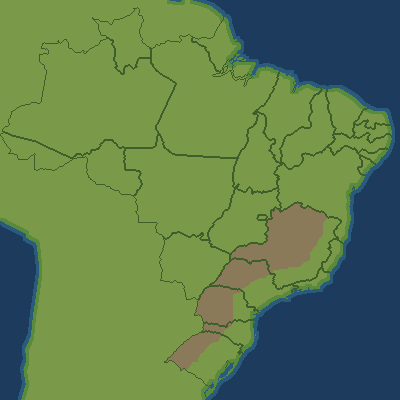
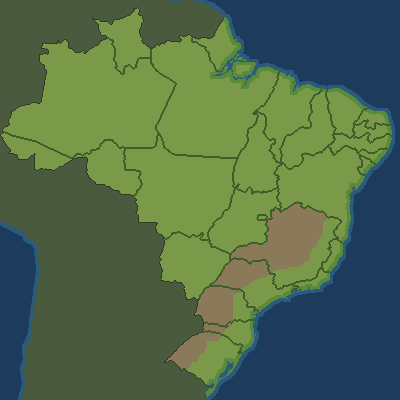
Mundo: cidades sempre em terra e vizinhos destacados no brasil.png

diff --git a/ferramentas/montar_mundo.py b/ferramentas/montar_mundo.py
@@ -23,13 +23,15 @@ W_BRASIL, H_BRASIL = 400, 400
 CAIXA_TERRA = (-180.0, -90.0, 180.0, 90.0)
 W_TERRA, H_TERRA = 360, 180  # 1° por pixel
 PALETA = {"mar": "#1d3b5c", "mar_raso": "#2a5a7c", "terra": "#5a8a3c", "terra_alta": "#7a9a4a",
-          "serra": "#8a7a5a", "borda_uf": "#3e5e2a", "rio": "#3a7ab0"}  # rio: sem uso até haver fonte de rios
+          "serra": "#8a7a5a", "borda_uf": "#3e5e2a", "rio": "#3a7ab0",  # rio: sem uso até haver fonte de rios
+          "vizinho": "#4a5a3e", "borda_pais": "#2e3a22"}  # só no brasil.png
 UFS_SERRA = {"MG", "ES", "RJ", "SP", "PR", "SC", "RS"}
 COSTA, INTERIOR = 3, 20  # faixas de relevo: 0–3, 4–20 e 21+ pixels da costa
 NAO_CAPITAIS = {"mateus-leme"}
 ROTA_MAX_KM, ROTAS_MAX = 1500, 40
 ESTRANGEIRO = "--"  # rótulo da terra de outros países no mapa do Brasil
 FRESTA_LONGE_DO_MAR = 4  # pixels: ver desenhar_brasil()
+CIDADE_RAIO = 6  # pixels: até onde a cidade da costa pode ser puxada para a terra brasileira
 
 
 def para_pixel(lat, lon, caixa, w, h):
@@ -96,6 +98,14 @@ def distancias(dentro, w, h, rodar=False):
     return dist
 
 
+def vizinhos4(x, y):
+    return (x - 1, y), (x + 1, y), (x, y - 1), (x, y + 1)
+
+
+def vizinhos8(x, y):
+    return [(x + dx, y + dy) for dy in (-1, 0, 1) for dx in (-1, 0, 1) if dx or dy]
+
+
 def relevo(dist_costa, uf=None):
     if dist_costa <= COSTA:
         return "terra"
@@ -115,7 +125,8 @@ def pintar(w, h, cor_de):
 
 
 def desenhar(rotulo, w, h, rodar=False):
-    """Mar raso perto da costa, relevo na terra e borda de 1 pixel em volta de cada UF.
+    """Mar raso perto da costa, relevo na terra, vizinhos numa cor só e borda de 1 pixel em volta de cada UF
+    (borda_pais contra vizinho, borda_uf contra outra UF).
     rotulo: pixel -> UF, ESTRANGEIRO ou None (terra sem UF); pixel ausente é mar."""
     terra = set(rotulo)
     da_terra = distancias(terra, w, h, rodar)                   # na terra: passos até o mar
@@ -125,10 +136,14 @@ def desenhar(rotulo, w, h, rodar=False):
         if (x, y) not in terra:
             return "mar_raso" if do_mar[(x, y)] <= COSTA else "mar"
         uf = rotulo[(x, y)]
-        if uf and uf != ESTRANGEIRO:
-            for v in ((x - 1, y), (x + 1, y), (x, y - 1), (x, y + 1)):
-                if v in terra and rotulo[v] != uf:
-                    return "borda_uf"
+        if uf == ESTRANGEIRO:
+            return "vizinho"
+        if uf:
+            outros = {rotulo[v] for v in vizinhos4(x, y) if v in terra} - {uf}
+            if ESTRANGEIRO in outros:
+                return "borda_pais"
+            if outros:
+                return "borda_uf"
         return relevo(da_terra[(x, y)], uf)
     return pintar(w, h, cor)
 
@@ -154,17 +169,35 @@ def desenhar_brasil(paises, estados):
             brasil_110m |= pixels
         else:
             rotulo.update(dict.fromkeys(pixels, ESTRANGEIRO))
-    # O 1:110m e o 1:50m não casam: sobra Brasil 110m fora das UFs. Longe do mar é fresta de fronteira
-    # e vira terra do vizinho; perto da costa (onde o 110m avança sobre o mar e as lagoas do 50m) é mar.
-    ate_o_mar = distancias(brasil_110m | set(rotulo), W_BRASIL, H_BRASIL)
-    for px in brasil_110m - set(rotulo):
-        if ate_o_mar[px] > FRESTA_LONGE_DO_MAR:
-            rotulo[px] = ESTRANGEIRO
+    ate_o_mar = distancias(brasil_110m | set(rotulo), W_BRASIL, H_BRASIL)  # mar do 1:110m
     for e in sorted(estados, key=lambda e: e["properties"]["postal"]):
         uf = e["properties"]["postal"]
         for px in preencher_aneis(aneis_em_pixels(e["geometry"], CAIXA_BRASIL, W_BRASIL, H_BRASIL), W_BRASIL, H_BRASIL):
             rotulo[px] = uf
-    return desenhar(rotulo, W_BRASIL, H_BRASIL)
+    # O 1:110m e o 1:50m não casam: sobra Brasil 110m fora das UFs. Longe do mar e ligada a um vizinho, é
+    # fresta de fronteira e vira terra do vizinho; o resto (costa e canais da foz do Amazonas) fica água.
+    fresta = {px for px in brasil_110m - set(rotulo) if ate_o_mar[px] > FRESTA_LONGE_DO_MAR}
+    fila = deque(px for px in sorted(fresta) if any(rotulo.get(v) == ESTRANGEIRO for v in vizinhos8(*px)))
+    rotulo.update(dict.fromkeys(fila, ESTRANGEIRO))
+    while fila:
+        for v in vizinhos8(*fila.popleft()):
+            if v in fresta and v not in rotulo:
+                rotulo[v] = ESTRANGEIRO
+                fila.append(v)
+    return desenhar(rotulo, W_BRASIL, H_BRASIL), rotulo
+
+
+def na_terra(cidade, rotulo):
+    """Pixel da cidade no brasil.png: o de para_pixel ou, se ele cair fora do Brasil (cidade da costa,
+    de ilha ou de baía), o pixel de UF mais perto em distância euclidiana, até CIDADE_RAIO."""
+    x, y = para_pixel(cidade["lat"], cidade["lon"], CAIXA_BRASIL, W_BRASIL, H_BRASIL)
+    perto = sorted((dx * dx + dy * dy, dy, dx) for dy in range(-CIDADE_RAIO, CIDADE_RAIO + 1)
+                   for dx in range(-CIDADE_RAIO, CIDADE_RAIO + 1)
+                   if dx * dx + dy * dy <= CIDADE_RAIO ** 2 and rotulo.get((x + dx, y + dy)) not in (None, ESTRANGEIRO))
+    if not perto:
+        raise ValueError(f"cidade {cidade['id']}: nenhum pixel do Brasil a até {CIDADE_RAIO} px de ({x}, {y})")
+    _, dy, dx = perto[0]
+    return x + dx, y + dy
 
 
 def km(a, b):
@@ -186,12 +219,12 @@ def montar(fontes, saida):
     cidades = ler(os.path.join(fontes, "cidades.json"))
     paises = ler(os.path.join(fontes, "fontes", "ne_110m_admin_0_countries.geojson"))["features"]
     estados = ler(os.path.join(fontes, "fontes", "ne_50m_admin_1_states_provinces_lakes.geojson"))["features"]
-    terra, brasil = desenhar_terra(paises), desenhar_brasil(paises, estados)
+    terra, (brasil, rotulo) = desenhar_terra(paises), desenhar_brasil(paises, estados)
 
     mundo = {
         "cidades": [{"id": c["id"], "nome": c["nome"], "uf": c["uf"], "lat": c["lat"], "lon": c["lon"],
                      "x": x, "y": y, "marco": c["marco"]}
-                    for c in cidades for x, y in [para_pixel(c["lat"], c["lon"], CAIXA_BRASIL, W_BRASIL, H_BRASIL)]],
+                    for c in cidades for x, y in [na_terra(c, rotulo)]],
         "rotas": rotas(cidades),
         "niveis": {"brasil": {"w": W_BRASIL, "h": H_BRASIL, "caixa": list(CAIXA_BRASIL)}},
     }

diff --git a/test_montar_mundo.py b/test_montar_mundo.py
@@ -87,6 +87,17 @@ class Montagem(unittest.TestCase):
             shutil.rmtree(p, ignore_errors=True)
 
     @classmethod
+    def cores(cls, pontos):
+        """Cor '#rrggbb' de cada (x, y) do brasil.png montado, lida pelo Pillow no processo filho."""
+        ler = ("import json, sys\nfrom PIL import Image\nim = Image.open(sys.argv[1]).convert('RGB')\n"
+               "print(json.dumps(['#%02x%02x%02x' % im.getpixel(tuple(p)) for p in json.loads(sys.argv[2])]))")
+        r = subprocess.run([sys.executable, "-c", ler, os.path.join(cls.pastas[0], "brasil.png"), json.dumps(pontos)],
+                           capture_output=True, text=True, timeout=60)
+        if r.returncode:
+            raise AssertionError(r.stderr)
+        return json.loads(r.stdout)
+
+    @classmethod
     def montar(cls, pasta):
         r = subprocess.run([sys.executable, "-B", cls.SCRIPT, cls.ENTRADA, pasta], capture_output=True, text=True,
                            encoding="utf-8", errors="replace", timeout=120)
@@ -125,6 +136,26 @@ class Montagem(unittest.TestCase):
                 cabeca = f.read(24)
             self.assertEqual(cabeca[1:4], b"PNG", nome)
             self.assertEqual((int.from_bytes(cabeca[16:20], "big"), int.from_bytes(cabeca[20:24], "big")), tamanho, nome)
+
+    def test_cidades_em_terra(self):
+        import montar_mundo as mm
+        brasil = {mm.PALETA[n] for n in ("terra", "terra_alta", "serra", "borda_uf", "borda_pais")}
+        cidades = self.mundo["cidades"]
+        for c, cor in zip(cidades, self.cores([[c["x"], c["y"]] for c in cidades])):
+            self.assertIn(cor, brasil, c["id"])
+            x0, y0 = mm.para_pixel(c["lat"], c["lon"], mm.CAIXA_BRASIL, 400, 400)
+            self.assertLessEqual((c["x"] - x0) ** 2 + (c["y"] - y0) ** 2, 36, c["id"])
+        movidas = {c["id"] for c in cidades
+                   if (c["x"], c["y"]) != mm.para_pixel(c["lat"], c["lon"], mm.CAIXA_BRASIL, 400, 400)}
+        self.assertTrue({"belem", "recife", "rio-de-janeiro", "florianopolis"} <= movidas, movidas)
+
+    def test_vizinhos_destacados(self):
+        import montar_mundo as mm
+        paraguai = mm.para_pixel(-23.0, -58.0, mm.CAIXA_BRASIL, 400, 400)
+        mato_grosso = mm.para_pixel(-13.0, -56.0, mm.CAIXA_BRASIL, 400, 400)
+        cor_py, cor_mt = self.cores([list(paraguai), list(mato_grosso)])
+        self.assertEqual(cor_py, mm.PALETA["vizinho"])
+        self.assertIn(cor_mt, {mm.PALETA[n] for n in ("terra", "terra_alta", "serra")})
 
     def test_estaticos_em_dia(self):
         """static/mundo/ versionado bate com o que a ferramenta gera hoje."""
